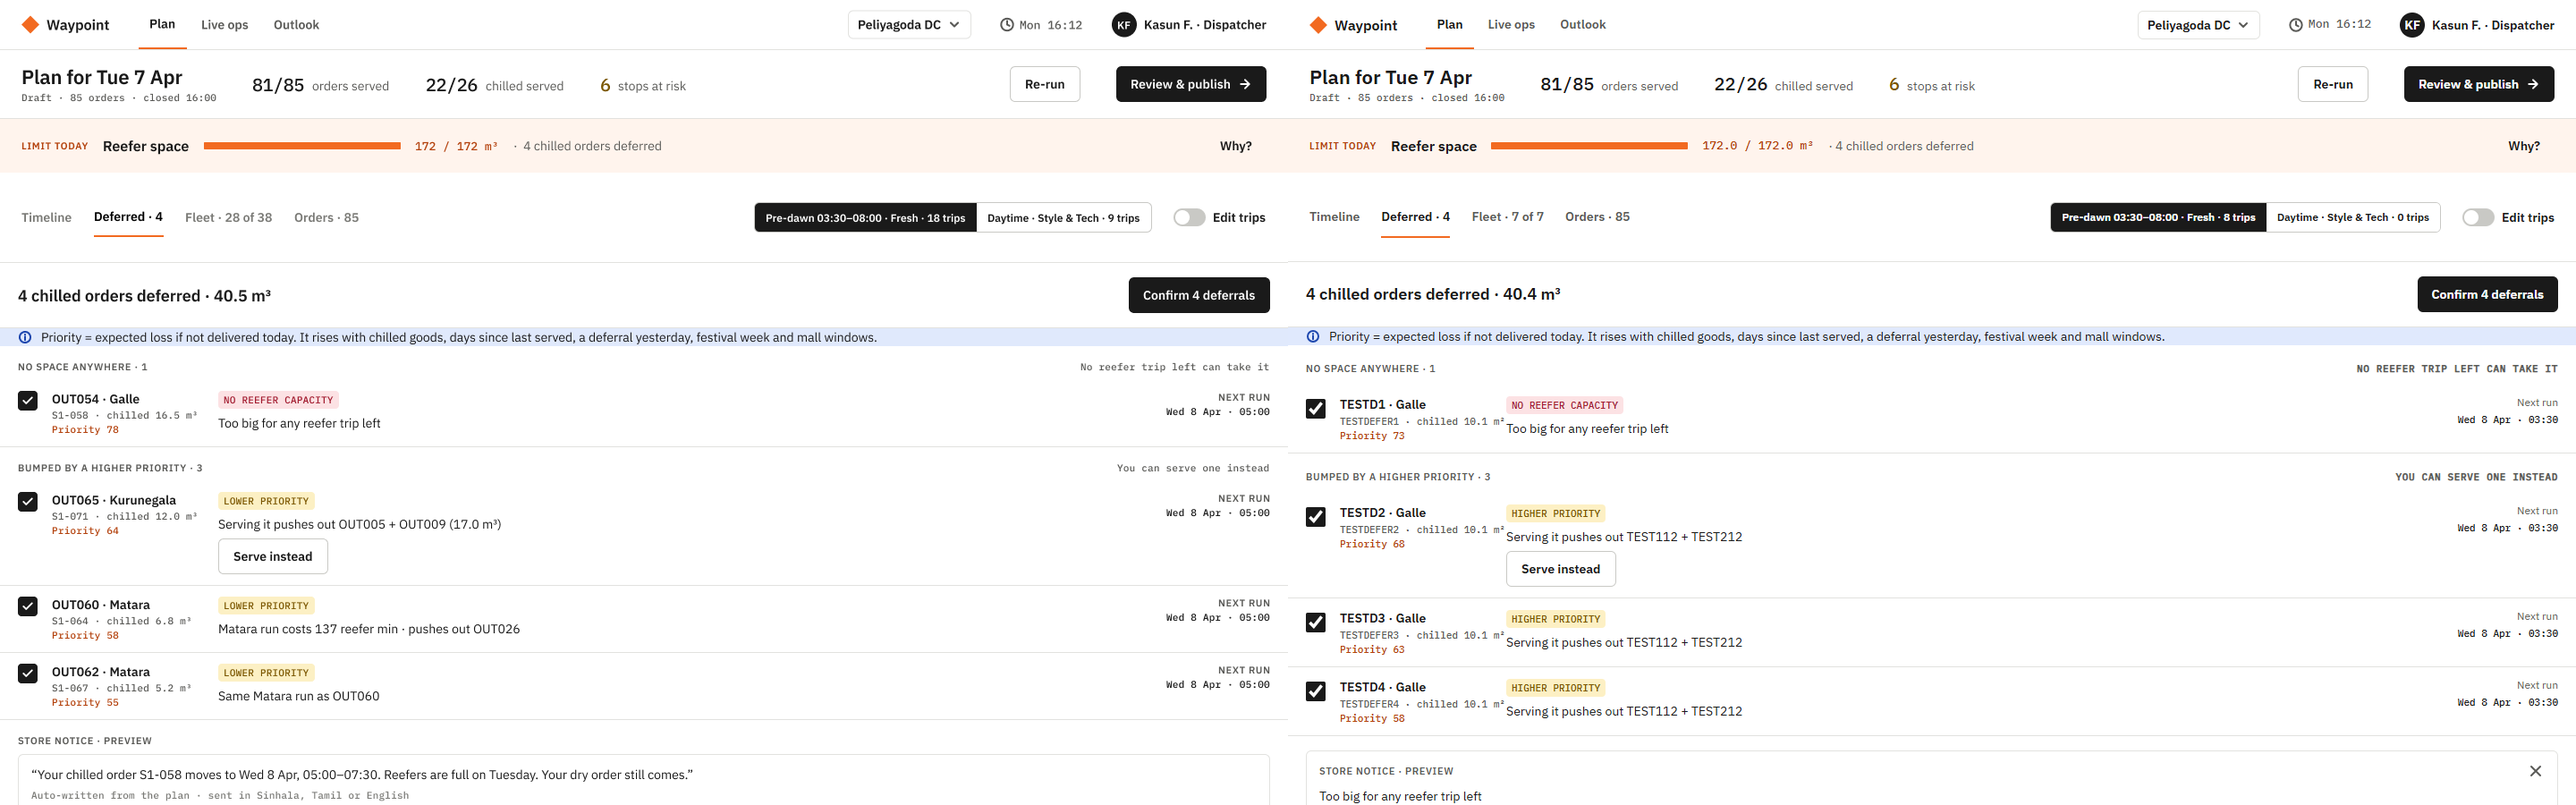
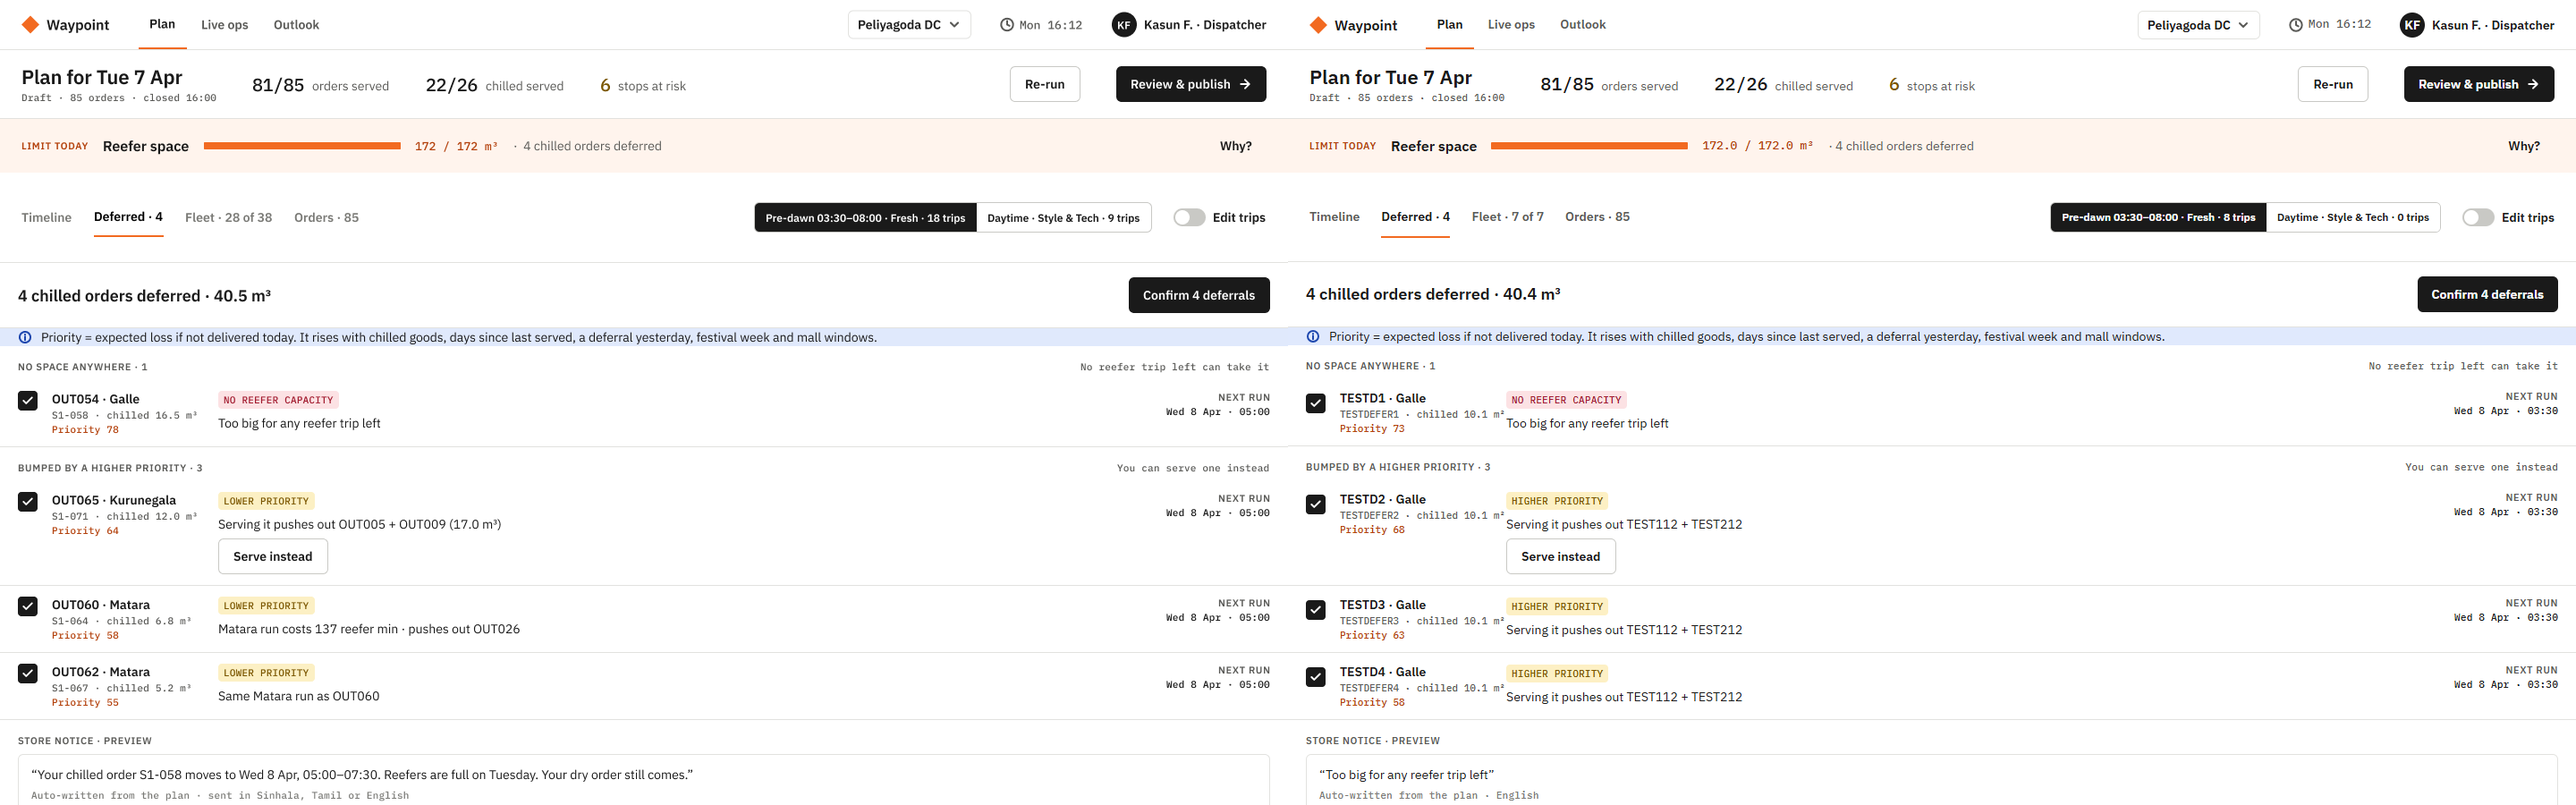
docs(dispatch): refresh eight-frame fidelity evidence

diff --git a/docs/qa/dev2-fidelity.md b/docs/qa/dev2-fidelity.md
@@ -1,0 +1,18 @@
+# Dispatcher fidelity review — task 2.9
+
+Reviewed the frame geometry, copy, tokens, states and rationale against 1440 × 900 browser captures. Each comparison puts Figma on the left and the application on the right. Browser fixtures use synthetic identifiers and quantities; displayed operational data is expected to differ from the illustrative Figma data.
+
+| Screen | Frame | Comparison | Result |
+|---|---|---|---|
+| D1 / trip panel | 196:383 | [Timeline](dev2-planning/timeline.png) | Corrected bar label placement, selected border, legend order and markers, panel line heights, capacity track and rule emphasis |
+| D3 Deferred | 197:440 | [Deferred](dev2-planning/deferred.png) | Corrected checkbox primitive, group/row typography, next-run spacing and notice caption outside the bordered preview |
+| Fleet | 198:274 | [Fleet](dev2-planning/fleet.png) | Corrected plain status text, monospace figures, caption sizes and fuel meter tokens |
+| D4 Publish | 197:682 | [Publish](dev2-planning/publish.png) | Corrected check/warning icon spacing; gates and warnings remain functional |
+| D6 Shortfall | 156:283 | [Shortfall](dev2-repair/shortfall.png) | Recommendation, explicit selection and publication navigation verified |
+| D5 Live operations | 157:322 | [Live operations](dev2-ops/live-ops.png) | Exception cards, trip chains, pending-sync state and actions reviewed |
+| D10 Store report | 250:409 | [Store report](dev2-issues/store-report.png) | Item/photo comparison, decision panel and required rejection reason verified |
+| D13 Offline reconciliation | 201:307 | [Count conflict](dev2-issues/count-conflict.png) | Original counts/timestamps, decision options and confirmation reviewed |
+
+Existing approved departures remain: disabled trip editing and Orders tab; real arrival windows/counts instead of unsupported probabilities; English-only notices; disabled dock call without a number; loading-team notification wording until the lead connects the damaged-stock note to the pick-note view. See the departure register in [business rules](../02-business-rules.md). The fidelity pass introduces no new departure.
+
+Checks: web typecheck, lint, 10 tests and production build passed. All eight captures completed without browser page errors. Planning and repair checks are reproducible with `apps/web/scripts/verify-planning.cjs` and `verify-repair.cjs` against the development server; D5/D10/D13 captures use synthetic API responses. These are visual/interaction checks, not a claim that the lead's field applications have been integrated end to end.
